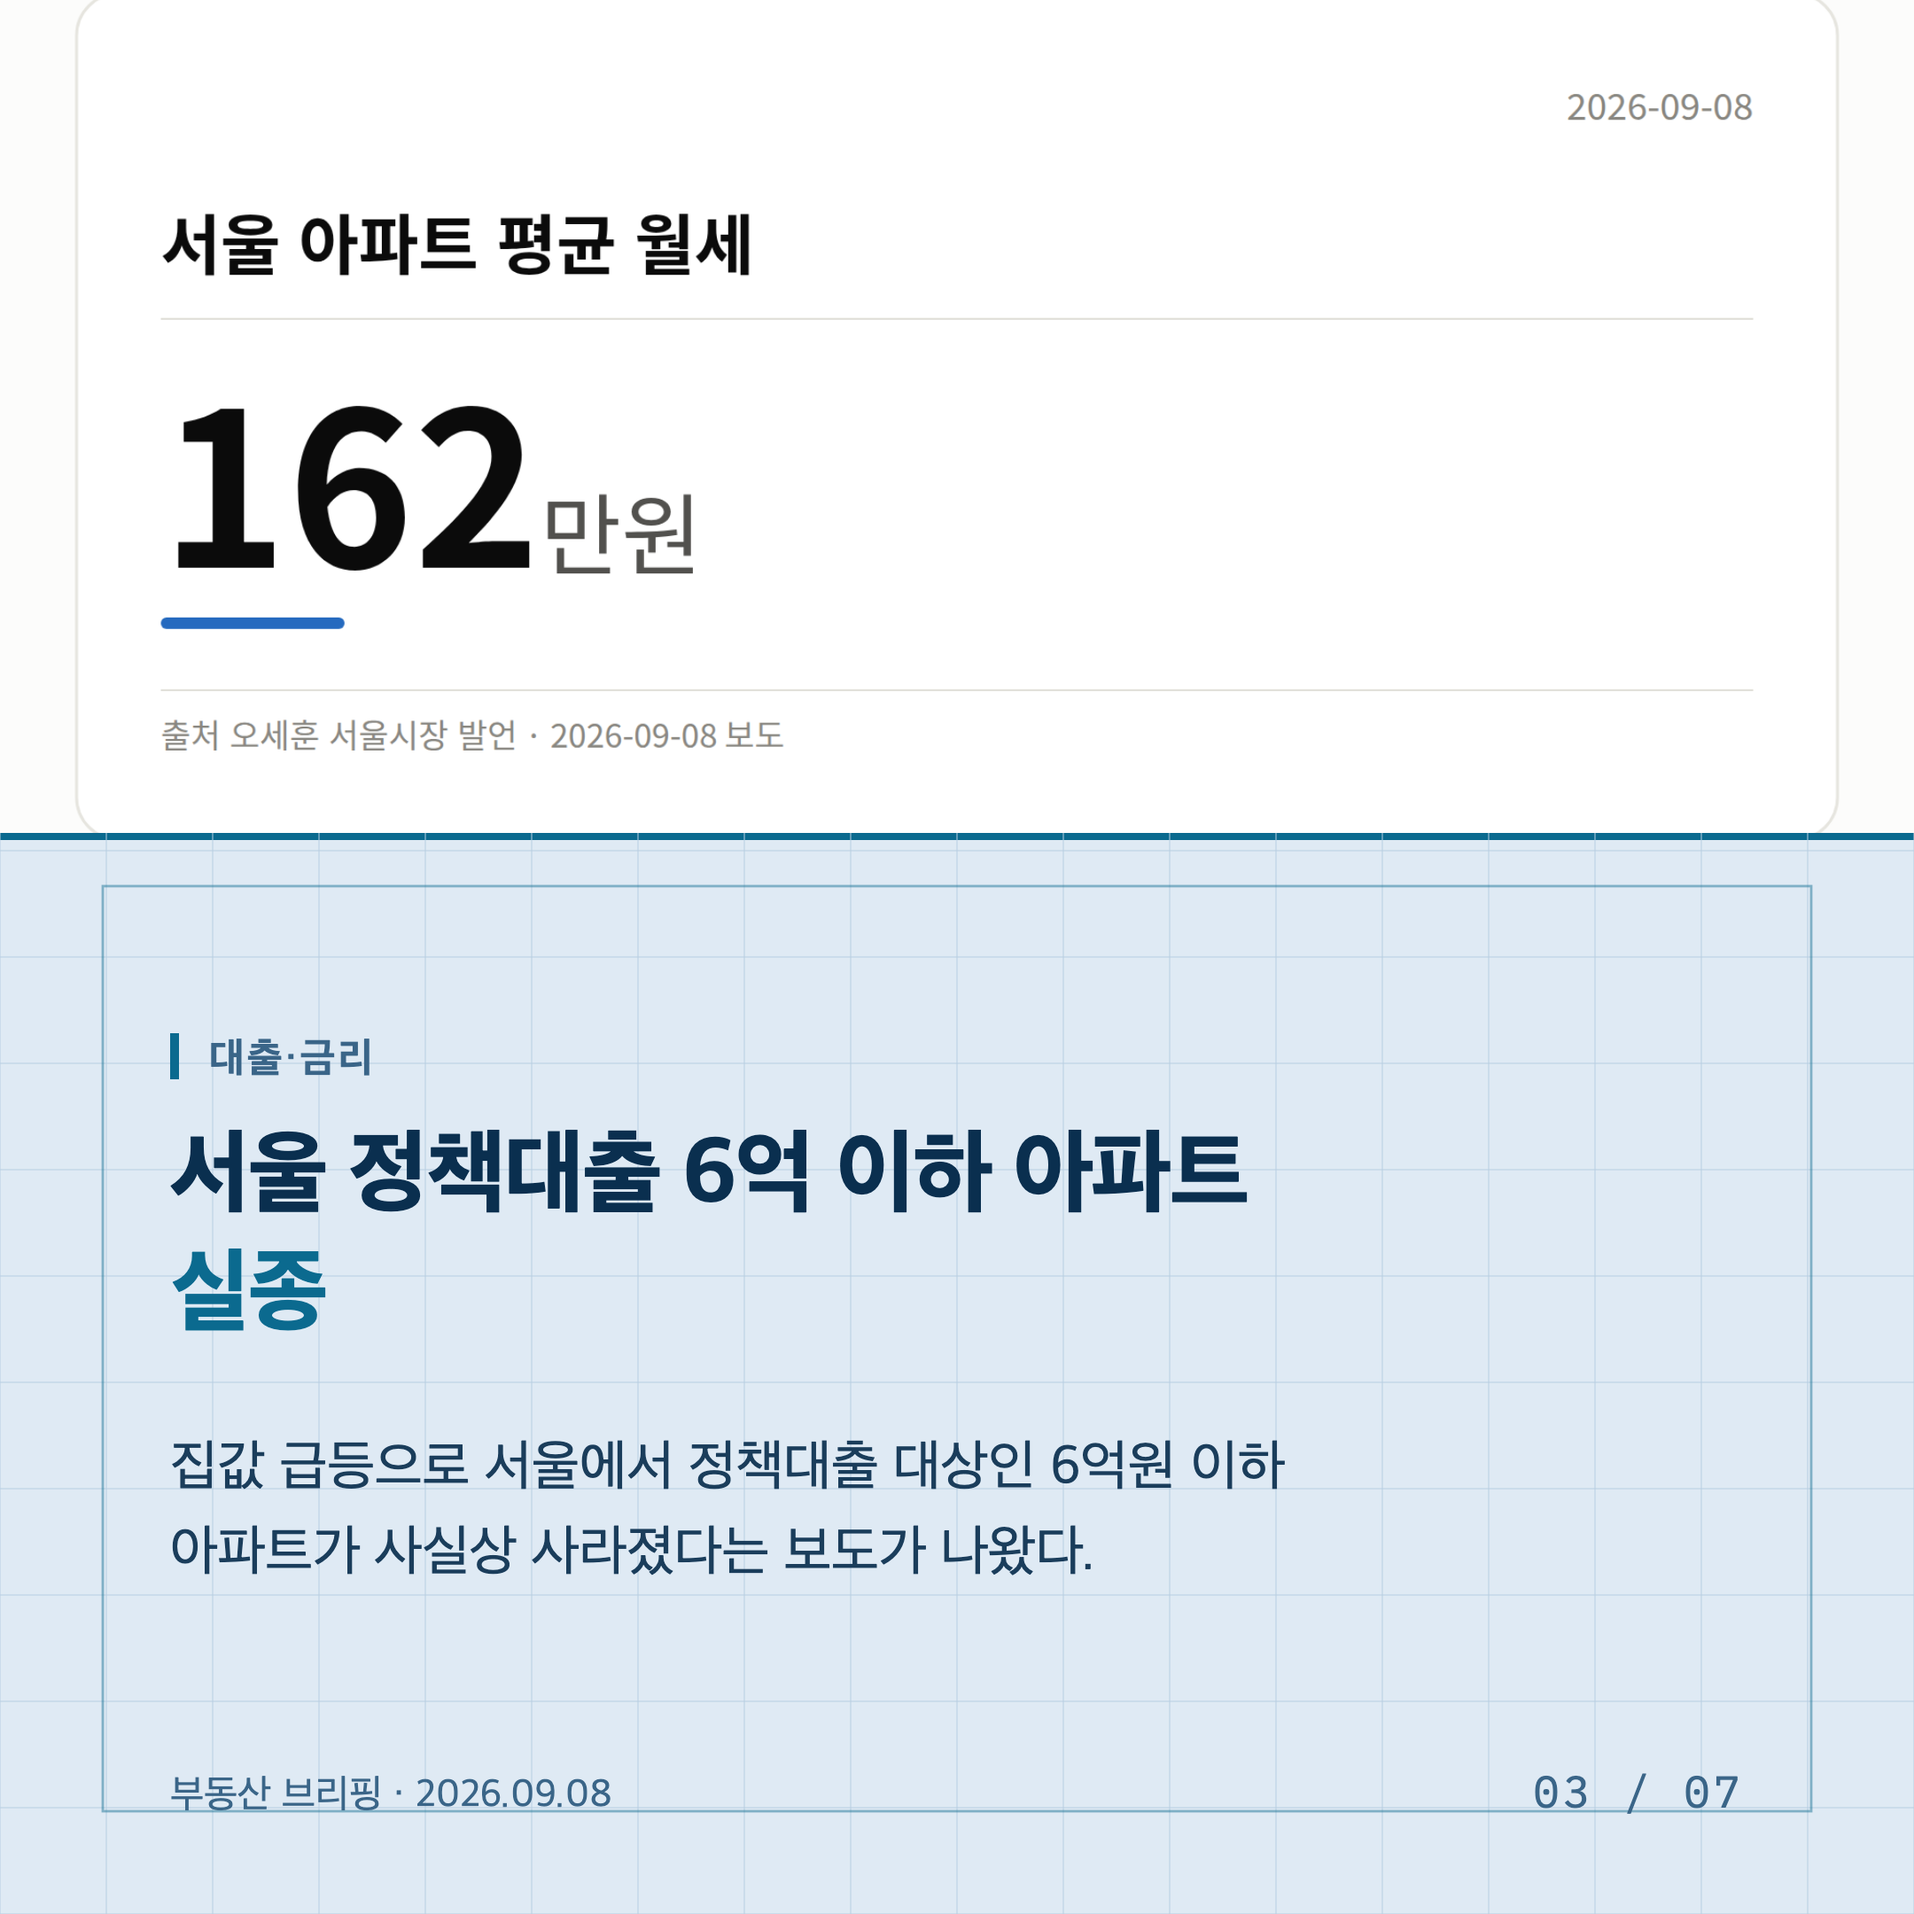
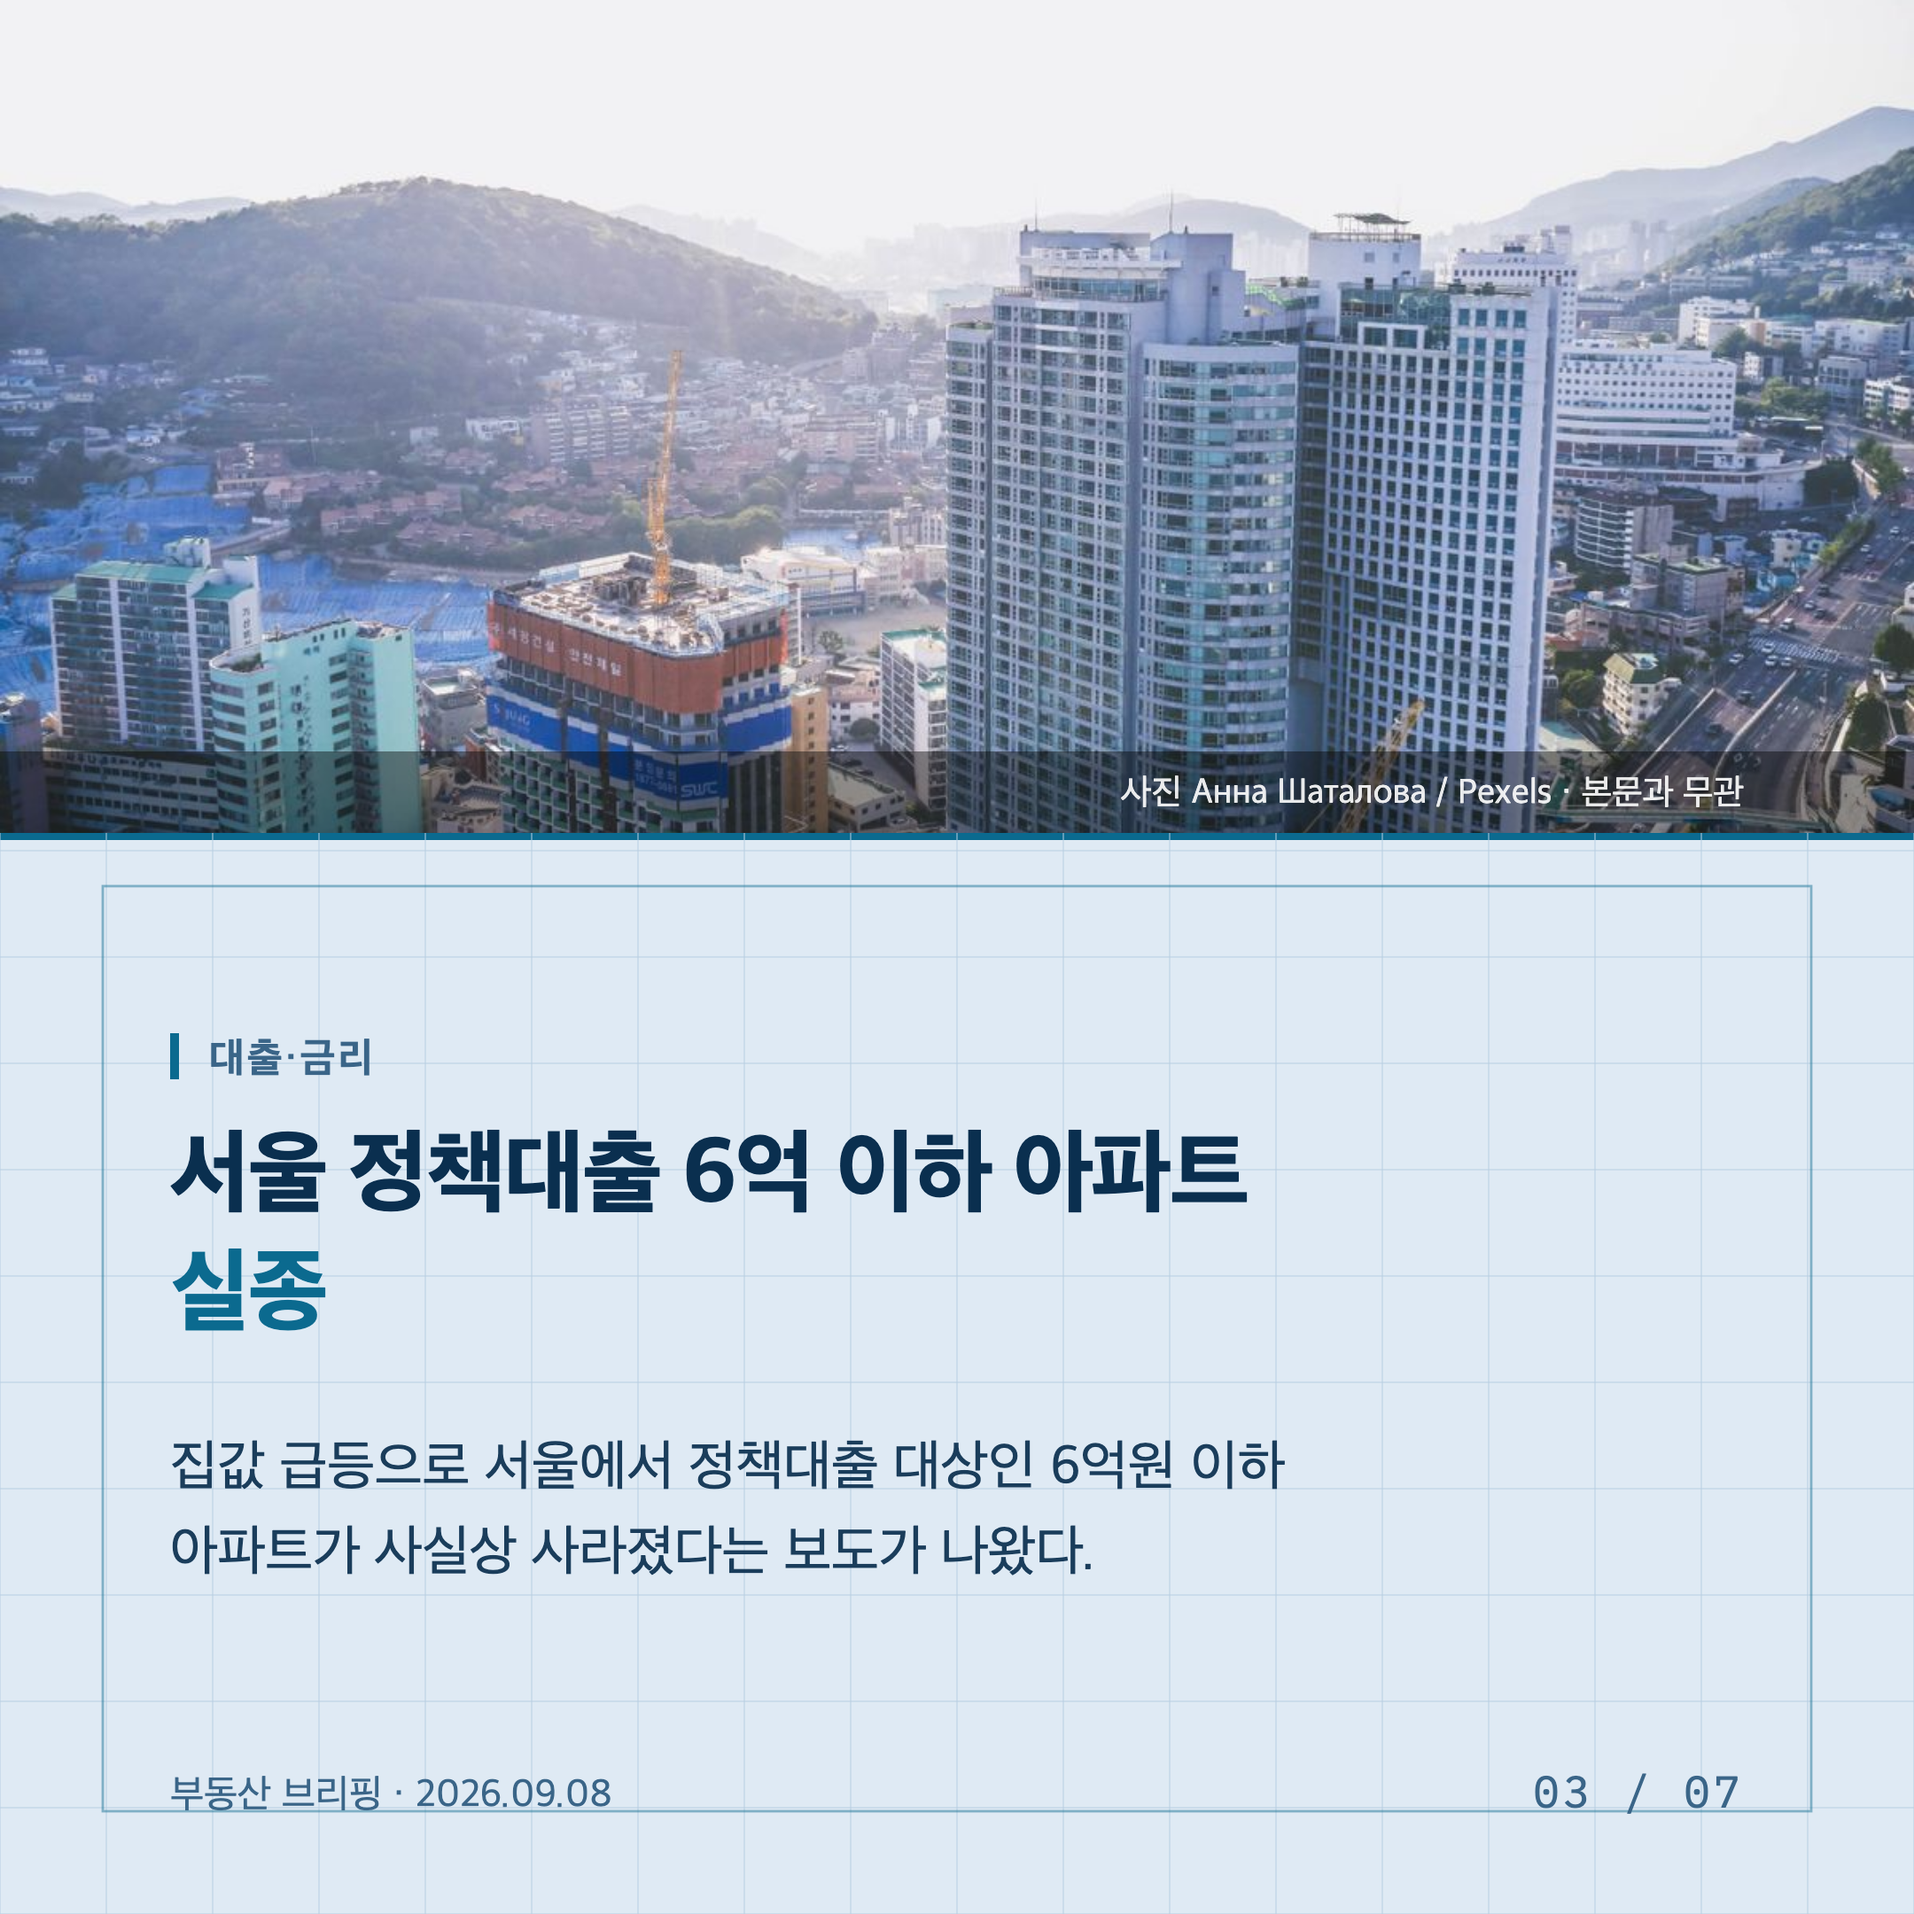
사진 검색을 실제로 붙였습니다 — 클라우드플레어 차단과 엉뚱한 사진 두 가지 고침
인증키를 넣고 실제로 호출해 보니 두 곳이 걸렸습니다.

* **403 Forbidden (error code: 1010).** 인증키는 맞는데 클라우드플레어가 막았습니다.
  urllib 의 기본 이름(Python-urllib/3.x)이 걸리는 것이라 User-Agent 한 줄을 넣으니
  그대로 200 이 됐습니다. 헤더 세 벌을 견줘 확인했습니다.
* **엉뚱한 사진.** 'apartment living room interior' 로 찾았더니 벽돌벽 서양 로프트가,
  'korean won money' 로 찾았더니 버스 교통카드 단말기가 표지에 붙었습니다.
  낱말마다 'seoul' 이나 'korea' 를 넣고, 주제를 곧이곧대로 좇던 낱말(금융·시청)을
  부동산 쪽으로 되돌렸습니다. 이제 서울 아파트 단지가 옵니다.

표지는 언제나 기본 낱말(seoul apartment buildings)로 찾습니다. 표지는 그날 전체를
받는 자리라 이슈 하나의 성격에 끌려가면 안 됩니다.

실측: 한 장에 100~220KB(원본이 아니라 1200px 판을 받습니다), 세 낱말에 3초쯤.
시험 232개와 pyflakes 는 깨끗합니다.

diff --git a/rebrief/photos.py b/rebrief/photos.py
@@ -32,13 +32,20 @@ PEXELS_SEARCH = "https://api.pexels.com/v1/search"
 # 이슈의 성격에 따라 찾을 말을 바꿉니다. Pexels 는 영어로 찾아야 결과가 많이 나옵니다.
 # 한국어로 넣으면 몇 건 안 나오는 것을 확인하고 영어 낱말로 짝지어 두었습니다.
 QUERY_MAP: list[tuple[tuple[str, ...], str]] = [
-    (("재건축", "재개발", "정비사업", "공사비", "착공"), "apartment construction site city"),
-    (("전세", "월세", "임대", "보증금"), "apartment living room interior"),
-    (("분양", "청약", "미분양", "입주"), "new apartment building exterior"),
-    (("대출", "금리", "이자", "주담대", "은행"), "bank finance calculator desk"),
-    (("정책", "규제", "정부", "국토부", "세금", "종부세"), "seoul city skyline government"),
-    (("거래", "매매", "시세", "집값", "가격"), "seoul apartment buildings"),
+    (("재건축", "재개발", "정비사업", "공사비", "착공"), "seoul construction site"),
+    (("전세", "월세", "임대", "보증금"), "seoul apartment window"),
+    (("분양", "청약", "미분양", "입주"), "korea apartment complex"),
+    (("대출", "금리", "이자", "주담대", "은행"), "korea real estate agency"),
+    (("정책", "규제", "정부", "국토부", "세금", "종부세"), "seoul government building"),
+    (("거래", "매매", "시세", "집값", "가격"), "seoul housing"),
 ]
+# **낱말이 주제를 너무 곧이곧대로 좇으면 엉뚱한 사진이 옵니다.** '대출·금리' 를
+# 'korean won money' 로 찾았더니 버스 교통카드 단말기가 올라왔습니다 (2026-09-08).
+# 부동산 글에는 어떤 이야기든 아파트·도시 사진이 어울리므로, 낱말을 그쪽으로 되돌려
+# 두었습니다. 결이 조금 덜 맞아도 엉뚱한 것보다 낫습니다.
+# 표지에 쓰는 기본값. **낱말마다 '서울' 이나 '한국' 을 넣습니다** — 빼고 찾으면 서양 주택
+# 사진이 올라옵니다. 2026-09-08 에 실제로 '아파트 실내' 로 찾았더니 벽돌벽 로프트가
+# 표지에 붙었습니다. 'seoul' 을 넣은 뒤로는 서울 아파트 단지가 나옵니다.
 DEFAULT_QUERY = "seoul apartment buildings"
 
 
@@ -51,11 +58,15 @@ class Photo:
 
 
 def queries_for(brief: dict, limit: int = 3) -> list[str]:
-    """브리핑에서 찾을 말을 뽑는다. 겹치지 않게, 모자라면 기본값으로 채운다."""
-    text_by_issue = [f"{i.get('title', '')} {i.get('category', '')} {i.get('one_liner', '')}"
-                     for i in (brief.get("issues") or [])]
-    out: list[str] = []
-    for text in [str(brief.get("headline", ""))] + text_by_issue:
+    """브리핑에서 찾을 말을 뽑는다. 겹치지 않게, 모자라면 기본값으로 채운다.
+
+    **첫 장은 언제나 기본값**입니다. 첫 장은 표지이고 표지는 그날 전체를 받으므로,
+    이슈 하나의 성격(예: 월세 → 실내 사진)에 끌려가면 안 됩니다. 두 번째부터가
+    이슈 카드라 거기서 성격을 따라갑니다.
+    """
+    out: list[str] = [DEFAULT_QUERY]
+    for issue in brief.get("issues") or []:
+        text = f"{issue.get('title', '')} {issue.get('category', '')} {issue.get('one_liner', '')}"
         for words, query in QUERY_MAP:
             if any(w in text for w in words) and query not in out:
                 out.append(query)
@@ -67,9 +78,15 @@ def queries_for(brief: dict, limit: int = 3) -> list[str]:
     return out[:limit]
 
 
+# 이름을 밝히지 않으면 클라우드플레어가 막습니다. 인증키가 맞아도 `error code: 1010` 이
+# 돌아옵니다 (2026-09-08 실측 — 이 줄 하나로 403 이 200 이 됐습니다). urllib 의 기본
+# 이름(Python-urllib/3.x)이 걸리는 것이라, 무엇이든 사람이 읽을 이름을 보내야 합니다.
+USER_AGENT = "estate-news/1.0 (+https://www.rokiz.net/estate-news/)"
+
+
 def _get(url: str, headers: dict, timeout: int = 20) -> bytes:
     """망 호출 한 곳. 시험에서 이 함수만 갈아끼우면 네트워크 없이 검증된다."""
-    req = urllib.request.Request(url, headers=headers)
+    req = urllib.request.Request(url, headers={"User-Agent": USER_AGENT, **headers})
     with urllib.request.urlopen(req, timeout=timeout) as resp:
         return resp.read()
 

diff --git a/tests/test_develop.py b/tests/test_develop.py
@@ -2038,9 +2038,11 @@ def test_photo_search_picks_words_from_the_day(cfg):
                    {"title": "주담대 금리 인상", "category": "대출·금리", "one_liner": ""}],
     }, limit=3)
     assert len(got) == 3 and len(set(got)) == 3            # 세 장이 다 달라야 한다
-    assert "construction" in got[0]                        # 재건축 → 공사 현장
-    assert any("interior" in q for q in got)               # 전세 → 실내
-    assert any("bank" in q for q in got)                   # 금리 → 금융
+    assert got[0] == photos.DEFAULT_QUERY                  # 표지는 그날 전체를 받는다
+    assert any("window" in q for q in got)                 # 전세 → 아파트 외벽
+    assert any("real estate" in q for q in got)            # 금리 → 부동산
+    # 낱말마다 서울·한국이 들어가야 서양 주택 사진이 안 온다 (2026-09-08 실측)
+    assert all("seoul" in q or "korea" in q for _, q in photos.QUERY_MAP)
 
 
 def test_photo_search_survives_a_missing_key_and_a_dead_network(cfg, tmp_path, monkeypatch):
